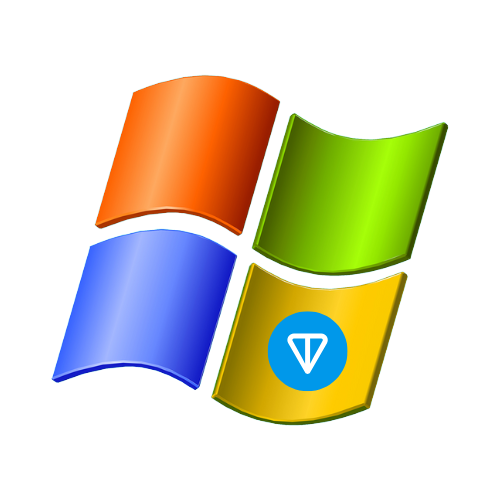
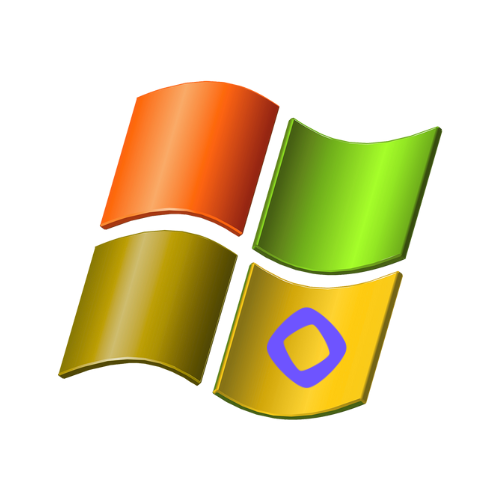
fix

Changed region(s): [[0.09, 0.15, 0.9, 0.87]]

diff --git a/index.html b/index.html
@@ -4,13 +4,13 @@
 
 <head>
   <meta charset="utf-8">
-  <title>Windows Ton Official </title>
-  <meta content="Windows Ton " name="description">
-  <meta content="Windows Ton " property="og:title">
-  <meta content="Windows Ton " property="og:description">
+  <title>Windows Monad Official </title>
+  <meta content="Windows Monad " name="description">
+  <meta content="Windows Monad " property="og:title">
+  <meta content="Windows Monad " property="og:description">
   <meta content="#" property="og:image">
-  <meta content="Windows Ton " property="twitter:title">
-  <meta content="Windows Ton " property="twitter:description">
+  <meta content="Windows Monad " property="twitter:title">
+  <meta content="Windows Monad " property="twitter:description">
   <meta content="#" property="twitter:image">
   <meta property="og:type" content="website">
   <meta content="summary_large_image" name="twitter:card">
@@ -441,12 +441,12 @@
           <div class="win-content-outer-frame">
             <div class="win-content-inner-frame">
               <div class="win-content"><a href="#" class="bin-item w-inline-block">
-                  <div class="bien-item-text">Windows Ton
+                  <div class="bien-item-text">Windows Monad
                   </div>
                 </a><a href="#" class="bin-item w-inline-block">
                   <div class="bien-item-text">3D-NFT-pack.zip</div>
                 </a><a href="#" class="bin-item w-inline-block">
-                  <div class="bien-item-text">Deploy-Windows Ton
+                  <div class="bien-item-text">Deploy-Windows Monad
                     .exe</div>
                 </a></div>
             </div>
@@ -497,13 +497,13 @@
       </a>
 
       <div class="clock-2">
-        <div class="flex-h"><a href="https://t.me/WinTON_Channel" target="_blank" class="w-inline-block"><img
+        <div class="flex-h"><a href="https://t.me/Windows_Monad" target="_blank" class="w-inline-block"><img
               src="images/65d720d339f549e9be698efb_telegram-logo-pixel.png" alt class="image-6"></a><a href=""
             target="_blank" class="w-inline-block"><img src="images/65d71deffc33dbbb24b85c16_logo-discord-pixel.png" alt
-              class="image-6"></a><a href="https://x.com/WinTON_Official" target="_blank"
+              class="image-6"></a><a href="https://x.com/WinMon_Monad" target="_blank"
             class="link-block w-inline-block"><img src="images/65d71d53b566b4f91fb8adbc_logo-x-twitter.png" alt
               class="image-6"></a>
-          <h6 class="hack23-time-version2 hide">WINTON</h6>
+          <h6 class="hack23-time-version2 hide">WINMON</h6>
         </div>
       </div>
     </div>
@@ -517,10 +517,10 @@
       class="desktop w-hidden-medium w-hidden-small w-hidden-tiny">
 
       <a id="w-node-_911b49d6-ea40-36b6-c34d-ca2528396137-fa5940a2" data-w-id="911b49d6-ea40-36b6-c34d-ca2528396137"
-        href="https://dedust.io/swap/TON/EQDmAymbBUV0MN2F_VDKVed_xvqmNwAvaUdH5OUchFP"
-        class="icon-block draggable w-inline-block"><img src="images/dedust.png" width="Auto" height="Auto"
+        href="https://dyorswap.org/home/?chainId=143"
+        class="icon-block draggable w-inline-block"><img src="images/launch_5.png" width="Auto" height="Auto"
           style="width: 40px;border-radius: 50%;" sizes="(max-width: 991px) 100vw, 60px" alt class="win-icon handle">
-        <p class="icon-text">DeDust</p>
+        <p class="icon-text">Dyor Swap</p>
       </a>
         <!-- <a id="w-node-_911b49d6-ea40-36b6-c34d-ca2528396137-fa5940a2" data-w-id="911b49d6-ea40-36b6-c34d-ca2528396137"
         href="https://Tonx.mypinata.cloud/ipfs/bafybeiajyhfbf6evh4mdabassmbtsy73ci2gmcgh4ffmjkrgsea35vqxba/#/"
@@ -544,7 +544,7 @@
         <p class="icon-text">SWAP.EXE</p>
       </a>
 
-      <a id="w-node-_42c4ac90-e262-261f-d3da-3a28cca4e7f9-fa5940a2" href="https://x.com/WinTON_Official
+      <a id="w-node-_42c4ac90-e262-261f-d3da-3a28cca4e7f9-fa5940a2" href="https://x.com/WinMon_Monad
       " target="_blank" class="icon-block draggable w-inline-block"><img
           src="images/65d71d53b566b4f91fb8adbc_logo-x-twitter.png" width="10" height="Auto" alt
           class="win-icon handle small x2">
@@ -560,7 +560,7 @@
         <p class="icon-text tag">(999+)</p>
       </a>
 
-      <a id="w-node-_98696d31-f657-2a46-99d4-e65f13122bee-fa5940a2" href="https://t.me/WinTON_Channel" target="_blank"
+      <a id="w-node-_98696d31-f657-2a46-99d4-e65f13122bee-fa5940a2" href="https://t.me/Windows_Monad" target="_blank"
         class="icon-block draggable w-inline-block"><img src="images/65d7bfcb85a47be31f4b20b7_tg-pixel-logo.png"
           sizes="(max-width: 991px) 100vw, 40px" height width="65" alt
           srcset="images/65d7bfcb85a47be31f4b20b7_tg-pixel-logo-p-500.png 500w, images/65d7bfcb85a47be31f4b20b7_tg-pixel-logo-1.png 524w"
@@ -616,7 +616,7 @@
 
     <div style="" class="mobile">
 
-      <a id="w-node-e47fd2c7-f5f1-bb64-9363-93c3c7cabebf-fa5940a2" href="https://x.com/WinTON_Official
+      <a id="w-node-e47fd2c7-f5f1-bb64-9363-93c3c7cabebf-fa5940a2" href="https://x.com/WinMon_Monad
       " target="_blank" class="icon-block draggable w-inline-block"><img
           src="images/65d71d53b566b4f91fb8adbc_logo-x-twitter.png" width="10" height="Auto" alt
           class="win-icon handle small x2">
@@ -648,7 +648,7 @@
         <p class="icon-text tag">(285)</p>
       </a>
 
-      <a id="w-node-e7e03d8e-0ed1-f2f7-a2ef-ba81b0a678b4-fa5940a2" href="https://t.me/WinTON_Channel" target="_blank"
+      <a id="w-node-e7e03d8e-0ed1-f2f7-a2ef-ba81b0a678b4-fa5940a2" href="https://t.me/Windows_Monad" target="_blank"
         class="icon-block draggable w-inline-block"><img src="images/65d7bfcb85a47be31f4b20b7_tg-pixel-logo.png"
           sizes="(max-width: 991px) 40px, 100vw" height width="65" alt
           srcset="images/65d7bfcb85a47be31f4b20b7_tg-pixel-logo-p-500.png 500w, images/65d7bfcb85a47be31f4b20b7_tg-pixel-logo-1.png 524w"
@@ -671,7 +671,7 @@
       </a>
 
       <a id="w-node-_469b9243-b91b-b299-c366-b1c77b889fb6-fa5940a2" data-w-id="469b9243-b91b-b299-c366-b1c77b889fb6"
-        href="https://dedust.io/swap/TON/EQDmAymbBUV0MN2F_VDKVed_xvqmNwAvaUdH5OUchFP" class="icon-block draggable w-inline-block"><img style="width: 30px;border-radius: 50px;"
+        href="https://dyorswap.org/home/?chainId=143" class="icon-block draggable w-inline-block"><img style="width: 30px;border-radius: 50px;"
           src="images/dedust.png" width="Auto" height="Auto" sizes="(max-width: 991px) 60px, 100vw" alt="WIN"
           class="win-icon handle">
         <p class="icon-text">DeDust</p>
